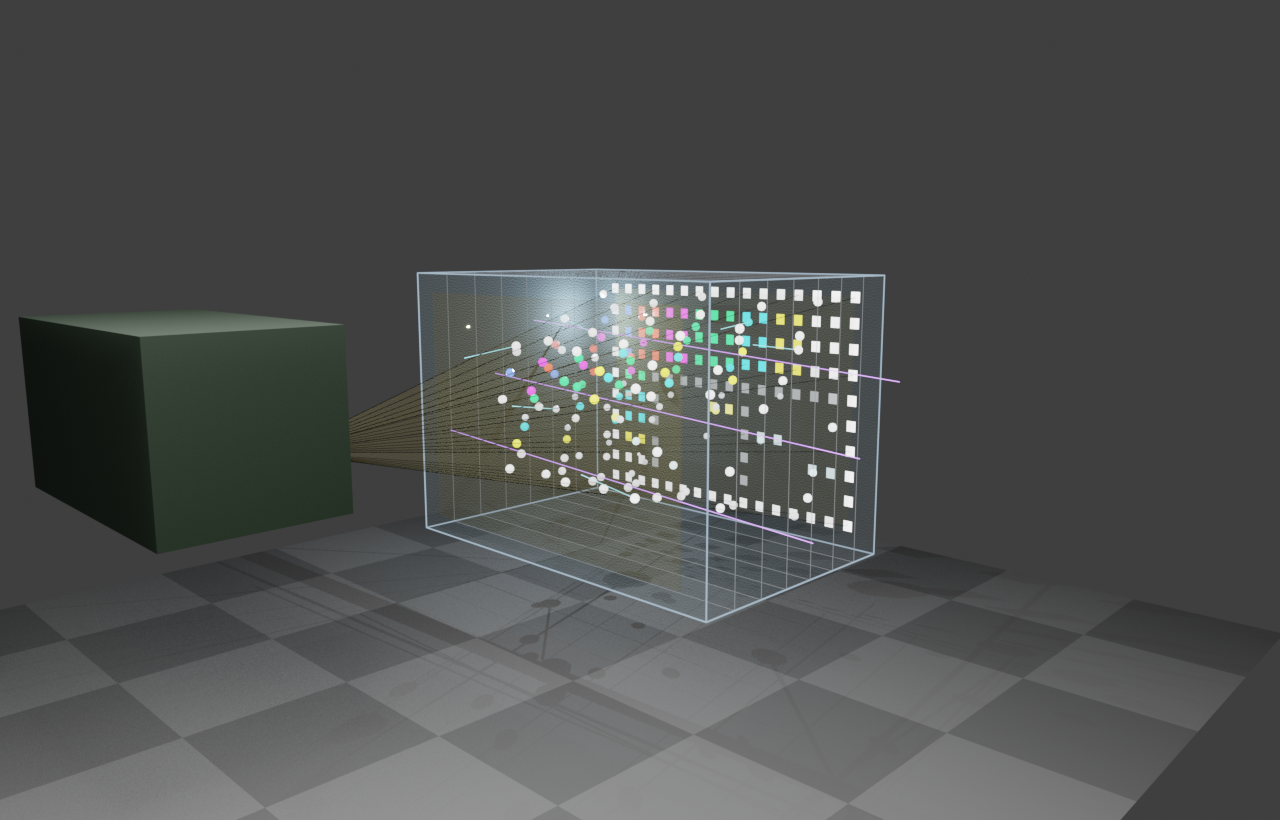
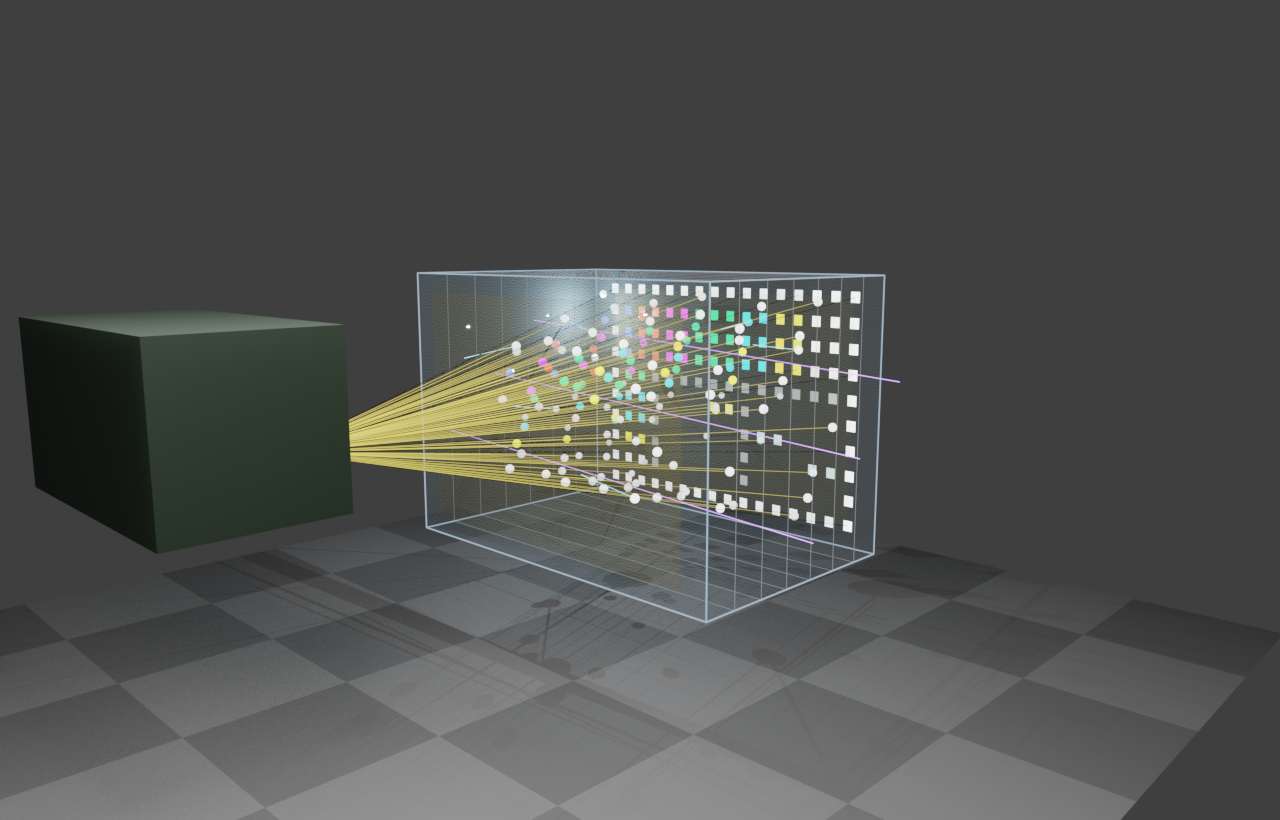
Visualize ray-aligned bubble voxels

Changed region(s): [[0.25, 0.3963, 0.5938, 0.6098], [0.5312, 0.6098, 0.5625, 0.6402]]

diff --git a/projector.py b/projector.py
@@ -34,6 +34,8 @@ IMAGE_FILL = 0.84
 BUBBLE_DEPTH_LAYERS = 7
 BUBBLE_RADIUS = 0.027
 BACKGROUND_BUBBLE_RATE = 0.02 if FAST_PREVIEW else 0.13
+SHOW_BACKGROUND_BUBBLES = False
+BUBBLE_PATH_RAY_LIMIT = 160 if FAST_PREVIEW else 260
 
 RAY_GRID_X = 6 if FAST_PREVIEW else 13
 RAY_GRID_Z = 4 if FAST_PREVIEW else 9
@@ -639,7 +641,7 @@ class BubbleField:
         for ix in range(IMAGE_GRID_X):
             for iz in range(IMAGE_GRID_Z):
                 active, color, brightness = pattern_pixel(ix, iz, IMAGE_GRID_X, IMAGE_GRID_Z)
-                background = (not active) and stable_hash(ix, iz, 7) < BACKGROUND_BUBBLE_RATE
+                background = SHOW_BACKGROUND_BUBBLES and (not active) and stable_hash(ix, iz, 7) < BACKGROUND_BUBBLE_RATE
                 if not active and not background:
                     continue
 
@@ -660,7 +662,7 @@ class BubbleField:
                     radius = BUBBLE_RADIUS * (0.35 + stable_hash(ix, iz, 8) * 0.25)
                     gray = 0.45 + stable_hash(ix, iz, 9) * 0.25
                     bubble_color = (gray, gray, gray, 0.72)
-                    name = f"BubblePixel_Background_{ix:02d}_{iz:02d}"
+                    name = f"NoiseBubble_Background_{ix:02d}_{iz:02d}"
 
                 bubble = self._create_linked_object(
                     name,
@@ -703,6 +705,34 @@ def create_projection_rays(
     create_frustum_mesh("Projected_Light_Frustum", lens, far_corners, materials["frustum"], collection)
     return rays
 
+def create_ray_aligned_bubble_paths(
+    projector: Projector,
+    bubble_field: BubbleField,
+    collection: bpy.types.Collection,
+    materials: Dict[str, bpy.types.Material],
+) -> List[bpy.types.Object]:
+    """显示从投影仪镜头到有效气泡体素的光线路径。"""
+    paths: List[bpy.types.Object] = []
+    active_bubbles = bubble_field.active_bubbles
+    if not active_bubbles:
+        return paths
+
+    stride = max(1, len(active_bubbles) // BUBBLE_PATH_RAY_LIMIT)
+    selected = active_bubbles[::stride][:BUBBLE_PATH_RAY_LIMIT]
+    lens = projector.lens_position
+
+    for index, bubble in enumerate(selected):
+        paths.append(
+            create_curve(
+                f"RayAligned_Bubble_Path_{index:03d}",
+                (lens, Vector(bubble.location)),
+                materials["bubble_path_ray"],
+                0.0016,
+                collection,
+            )
+        )
+
+    return paths
 
 def create_scattering_rays(
     bubble_field: BubbleField,
@@ -846,6 +876,7 @@ def build_materials() -> Dict[str, bpy.types.Material]:
         "glass": create_glass_material("Mat_Transparent_Glass_Cube", (0.72, 0.92, 1.0, 1.0), CUBE_ALPHA),
         "wire": create_emission_material("Mat_Glass_Cube_Wireframe", (0.55, 0.75, 0.95, 1.0), 0.7),
         "ray": create_emission_material("Mat_Projector_Thin_Rays", (0.02, 0.018, 0.012, 1.0), 0.35),
+        "bubble_path_ray": create_emission_material("Mat_Ray_Aligned_Bubble_Paths", (1.0, 0.82, 0.18, 1.0), 1.15),
         "frustum": create_glass_material("Mat_Faint_Yellow_Light_Frustum", (1.0, 0.84, 0.18, 1.0), 0.08),
         "scatter": create_emission_material("Mat_Bubble_Scatter_White", (0.92, 0.98, 1.0, 1.0), 3.6),
         "scatter_side": create_emission_material("Mat_Bubble_Scatter_Cyan", (0.35, 0.92, 1.0, 1.0), 2.4),
@@ -899,6 +930,9 @@ def build_scene() -> Dict[str, object]:
     log_step(f"创建入射光线: {RAY_GRID_X} x {RAY_GRID_Z}...")
     create_projection_rays(projector, volume, collections["rays"], materials)
 
+    log_step("创建气泡路径验证光线...")
+    create_ray_aligned_bubble_paths(projector, bubble_field, collections["rays"], materials)
+
     log_step("创建气泡散射光线...")
     create_scattering_rays(bubble_field, camera_location, collections["rays"], materials)
 
@@ -913,6 +947,7 @@ def build_scene() -> Dict[str, object]:
     print(f"投影像素网格: {IMAGE_GRID_X} x {IMAGE_GRID_Z}")
     print(f"气泡总数: {len(bubble_field.bubbles)}")
     print(f"有效发光气泡: {len(bubble_field.active_bubbles)}")
+    print(f"背景杂散气泡: {len(bubble_field.bubbles) - len(bubble_field.active_bubbles)}")
     print(f"深度层数: {BUBBLE_DEPTH_LAYERS}")
     print("对象已按 01_Projector / 02_Glass_Volume / 03_Light_Rays / 04_Bubble_Pixels 分组。")
     print("=" * 72)
